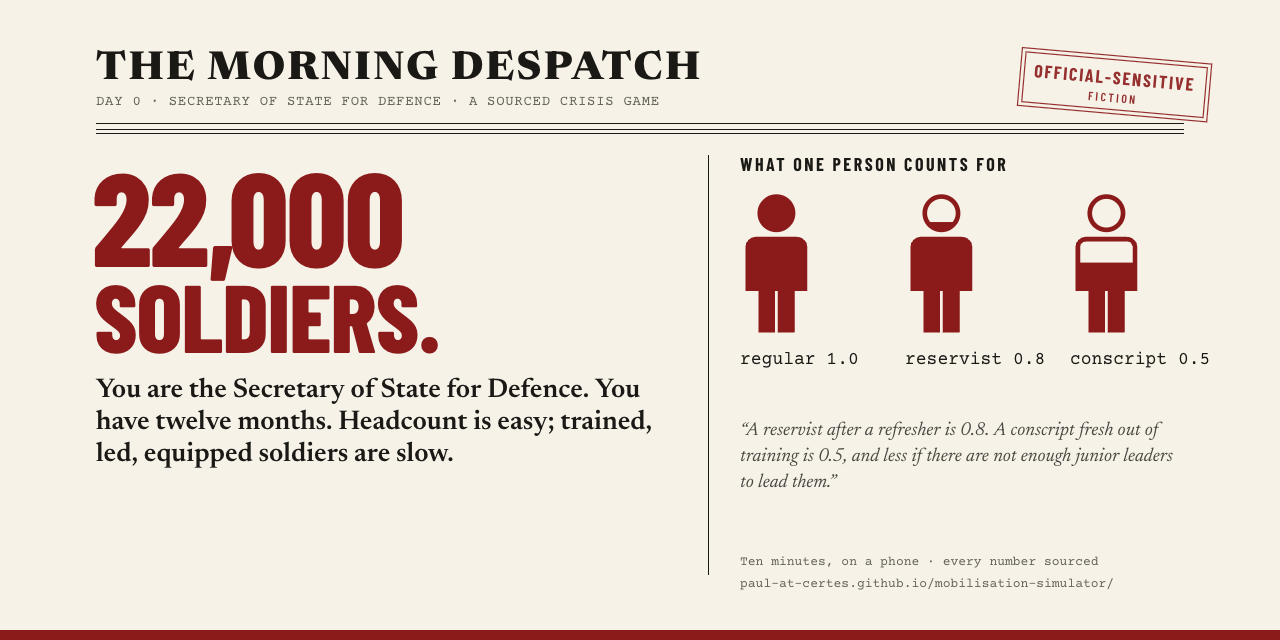
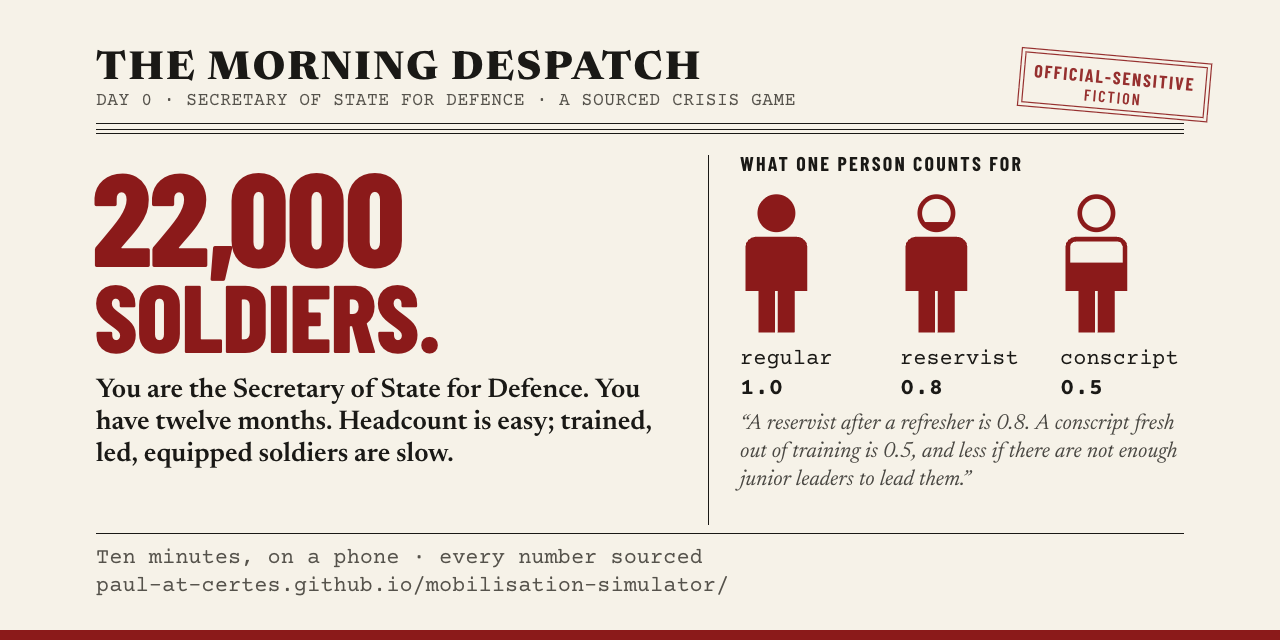
The share card's small print, readable in a feed
A feed shows the 1200×630 card about 550px wide, so the footer, the replay
link, the stamp's "fiction" and the target label, drawn at 12–15px, read at
6–7px. Nothing a reader needs is now under 20px on the card, the typed
edition line is 18px, and the grey matches the site's darker one.

At that size the foot no longer fits the right-hand column, so it runs
across the page under a rule. The figures' labels stack name over value, the
bars narrow so a seven-digit total ends on the margin, and the replay link
steps down until it fits, since a seed runs to ten digits. The link-preview
image and GitHub's social preview are regenerated from ?card=og.

diff --git a/src/ui/share-card.ts b/src/ui/share-card.ts
@@ -21,12 +21,15 @@ export interface ShareCardInput {
 
 const W = 1200;
 const H = 630;
+// Type floor. A feed shows the card about 550px wide, under half size, so
+// nothing a reader needs is set below 20px here and the typed edition line,
+// which is dressing, not below 18px.
 
 const COLOURS = {
   paper: '#f6f2e8',
   ink: '#1a1916',
   ink2: '#4a4843',
-  ink3: '#64615a',
+  ink3: '#55524b',
   rule: '#a89f8c',
   red: '#8b1a1a',
   ok: '#2a5a3a',
@@ -37,7 +40,7 @@ const COND = '"Barlow Condensed", "Arial Narrow", "Helvetica Neue", Helvetica, A
 const MONO = '"Courier Prime", "Courier New", Courier, monospace';
 
 /** The faces the card sets, so it can wait for them and draw again. */
-const FACES = ['800 132px "Barlow Condensed"', '700 18px "Barlow Condensed"', '800 40px "Newsreader"', '600 27px "Newsreader"', 'italic 400 19px "Newsreader"', '400 14px "Courier Prime"', '700 22px "Courier Prime"'];
+const FACES = ['800 132px "Barlow Condensed"', '700 20px "Barlow Condensed"', '600 16px "Barlow Condensed"', '800 40px "Newsreader"', '600 27px "Newsreader"', 'italic 400 22px "Newsreader"', '400 22px "Courier Prime"', '700 24px "Courier Prime"'];
 
 type Ctx = CanvasRenderingContext2D;
 
@@ -116,14 +119,15 @@ function paintResult(ctx: Ctx, input: ShareCardInput): void {
   ];
   const maxV = Math.max(score.headcount, score.target, 1);
   const trackX = 700;
-  const trackW = 386;
+  // Leaves room after the track for a seven-digit total at 24px inside the margin.
+  const trackW = 335;
   const rows: [string, 0 | 1, number, string][] = [
     ['Bodies', 0, 200, COLOURS.ink],
     ['Effective', 1, 280, COLOURS.red],
   ];
   for (const [name, idx, y, valueColour] of rows) {
     ctx.fillStyle = COLOURS.ink;
-    ctx.font = `400 20px ${MONO}`;
+    ctx.font = `400 22px ${MONO}`;
     ctx.fillText(name, trackX, y);
     ctx.strokeStyle = COLOURS.rule;
     ctx.lineWidth = 1;
@@ -138,7 +142,7 @@ function paintResult(ctx: Ctx, input: ShareCardInput): void {
       x += w;
     }
     ctx.fillStyle = valueColour;
-    ctx.font = `700 22px ${MONO}`;
+    ctx.font = `700 24px ${MONO}`;
     ctx.fillText(fmt(idx === 0 ? score.headcount : ese), trackX + trackW + 8, y + 33);
   }
   const tx = Math.min(trackX + trackW - 1, trackX + (score.target / maxV) * trackW);
@@ -151,14 +155,14 @@ function paintResult(ctx: Ctx, input: ShareCardInput): void {
   ctx.stroke();
   ctx.setLineDash([]);
   ctx.fillStyle = COLOURS.ink3;
-  ctx.font = `400 15px ${MONO}`;
+  ctx.font = `400 22px ${MONO}`;
   ctx.textAlign = tx > trackX + trackW * 0.8 ? 'right' : 'center';
   ctx.fillText(`target ${fmt(score.target)}`, tx, 350);
   ctx.textAlign = 'left';
 
   ctx.fillStyle = COLOURS.ink2;
-  ctx.font = `italic 400 19px ${SERIF}`;
-  wrapText(ctx, `“${score.verdictOneLiner}”`, 700, 400, 440, 26, 4);
+  ctx.font = `italic 400 22px ${SERIF}`;
+  wrapText(ctx, `“${score.verdictOneLiner}”`, 700, 400, 444, 28, 4);
 
   footer(ctx, 'Play it yourself · every number sourced', `${input.siteUrl}${score.seedUrl}`);
 }
@@ -179,15 +183,19 @@ function paintTeaser(ctx: Ctx, siteUrl: string): void {
   ];
   const scale = 5.2;
   weights.forEach(([name, value], i) => {
-    const x = 700 + i * 165;
+    const x = 700 + i * 160;
     figure(ctx, x, 190, scale, value);
+    // Name over value: on one line at this size, "conscript 0.5" runs off the card.
+    const base = 190 + FIGURE_H * scale + 34;
     ctx.fillStyle = COLOURS.ink;
-    ctx.font = `400 18px ${MONO}`;
-    ctx.fillText(`${name} ${value.toFixed(1)}`, x, 190 + FIGURE_H * scale + 34);
+    ctx.font = `400 22px ${MONO}`;
+    ctx.fillText(name, x, base);
+    ctx.font = `700 24px ${MONO}`;
+    ctx.fillText(value.toFixed(1), x, base + 30);
   });
   ctx.fillStyle = COLOURS.ink2;
-  ctx.font = `italic 400 19px ${SERIF}`;
-  wrapText(ctx, '“A reservist after a refresher is 0.8. A conscript fresh out of training is 0.5, and less if there are not enough junior leaders to lead them.”', 700, 430, 440, 26, 4);
+  ctx.font = `italic 400 22px ${SERIF}`;
+  wrapText(ctx, '“A reservist after a refresher is 0.8. A conscript fresh out of training is 0.5, and less if there are not enough junior leaders to lead them.”', 700, 424, 444, 28, 4);
   footer(ctx, 'Ten minutes, on a phone · every number sourced', siteUrl);
 }
 
@@ -211,8 +219,8 @@ function masthead(ctx: Ctx, edition: string): void {
   ctx.font = `800 40px ${SERIF}`;
   setSpacing(ctx, 2.4);
   ctx.fillText('THE MORNING DESPATCH', 56, 74);
-  ctx.font = `400 14px ${MONO}`;
-  setSpacing(ctx, 0.7);
+  ctx.font = `400 18px ${MONO}`;
+  setSpacing(ctx, 0.5);
   ctx.fillStyle = COLOURS.ink3;
   ctx.fillText(edition, 56, 100);
   setSpacing(ctx, 0);
@@ -231,9 +239,9 @@ function masthead(ctx: Ctx, edition: string): void {
   ctx.font = `700 18px ${COND}`;
   setSpacing(ctx, 1.8);
   ctx.fillText('OFFICIAL-SENSITIVE', 95, 29);
-  ctx.font = `600 12px ${COND}`;
-  setSpacing(ctx, 2.4);
-  ctx.fillText('FICTION', 95, 47);
+  ctx.font = `600 16px ${COND}`;
+  setSpacing(ctx, 2);
+  ctx.fillText('FICTION', 95, 48);
   setSpacing(ctx, 0);
   ctx.restore();
   ctx.textAlign = 'left';
@@ -258,22 +266,36 @@ function banner(ctx: Ctx, lines: [string, string], colour: string): void {
 
 function column(ctx: Ctx): void {
   ctx.fillStyle = COLOURS.ink;
-  ctx.fillRect(668, 150, 1, 420);
+  ctx.fillRect(668, 150, 1, 370);
 }
 
 function label(ctx: Ctx, text: string, x: number, y: number): void {
   ctx.fillStyle = COLOURS.ink;
-  ctx.font = `700 18px ${COND}`;
-  setSpacing(ctx, 2.5);
+  ctx.font = `700 20px ${COND}`;
+  setSpacing(ctx, 2.2);
   ctx.fillText(text.toUpperCase(), x, y);
   setSpacing(ctx, 0);
 }
 
+/**
+ * The foot of the page, across both columns under a rule: at a readable size
+ * the replay link is wider than the right-hand column. The second line ends
+ * inside GitHub's 40px safe border when the page is laid on its sheet.
+ */
 function footer(ctx: Ctx, line: string, url: string): void {
+  ctx.fillStyle = COLOURS.ink;
+  ctx.fillRect(56, 528, W - 112, 1);
   ctx.fillStyle = COLOURS.ink3;
-  ctx.font = `400 13px ${MONO}`;
-  ctx.fillText(line, 700, 560);
-  ctx.fillText(url.replace(/^https?:\/\//, ''), 700, 582);
+  ctx.font = `400 22px ${MONO}`;
+  ctx.fillText(line, 56, 558);
+  // A replay link carries a seed of up to ten digits, and a typed one can be
+  // longer: step the size down until it fits the measure, and no further than 16px.
+  const link = url.replace(/^https?:\/\//, '');
+  for (let size = 22; size >= 16; size--) {
+    ctx.font = `400 ${size}px ${MONO}`;
+    if (ctx.measureText(link).width <= W - 112) break;
+  }
+  ctx.fillText(link, 56, 586);
 }
 
 /** One soldier figure, `scale` times its 14×26 units, filled from the feet up to `frac`. */

diff --git a/docs/design-review.md b/docs/design-review.md
@@ -2047,6 +2047,17 @@ scroll.
    one line; from *Month 4 of 12* the wider tab puts it on two, and the header
    is 88px.
 
+**The share card and the link preview, the same day.** A feed shows the
+1200×630 card about 550px wide, so its 12–15px small print (the footer, the
+stamp's *fiction*, the edition line, the target label) was 6–7px on a desktop
+feed. The card's floor is now 20px for anything a reader needs and 18px for the
+typed edition line, with the same darker grey. At that size the foot no longer
+fits the right-hand column, so it runs across the page under a rule; the
+figures' labels stack name over value; the bars narrow from 386 to 335 so a
+seven-digit total ends on the 1144px margin; and the replay link steps down
+from 22px until it fits, since a seed runs to ten digits. `public/og-image.png`
+and `docs/social-preview.png` are regenerated from `?card=og`.
+
 ---
 
 ## The next mechanic, if one is wanted
